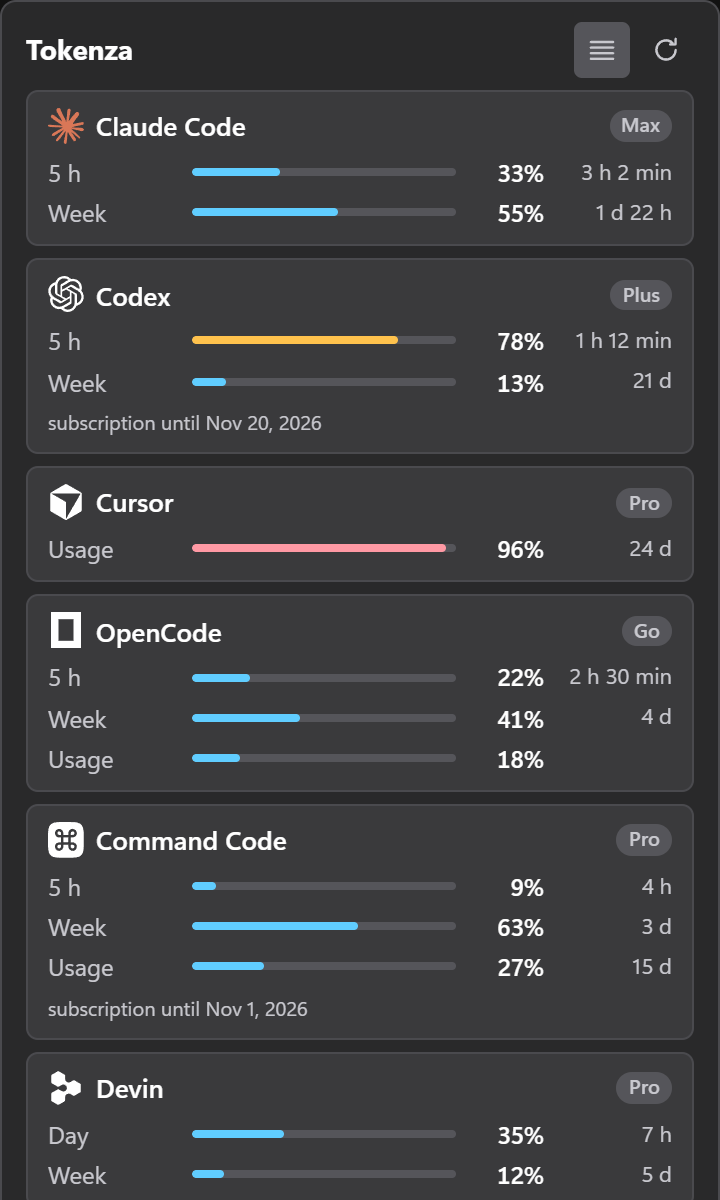
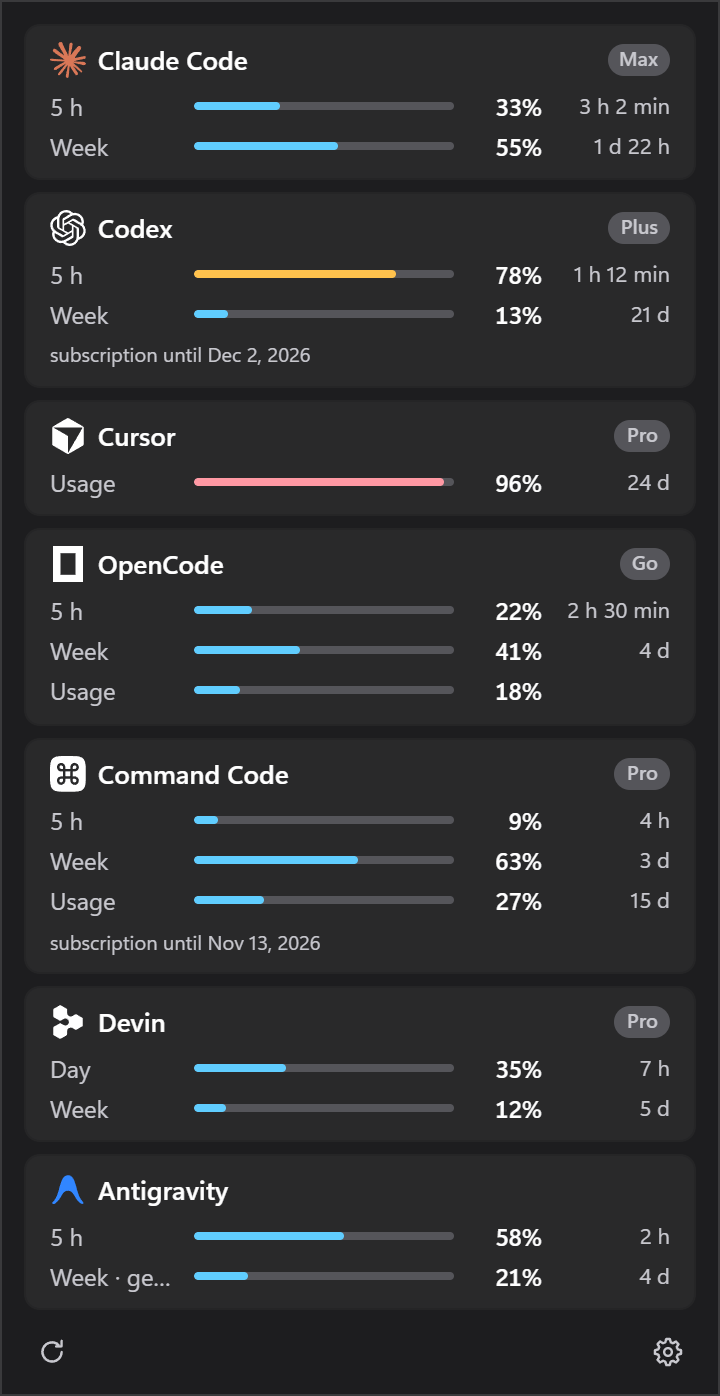
docs: refresh screenshots for the new flyout and drop the standard view ones

Changed region(s): [[0.0306, 0.0, 0.9778, 1.0], [0.9778, 0.0, 1.0, 0.0308]]

diff --git a/README.md b/README.md
@@ -18,8 +18,8 @@ A lightweight Windows tray app for Claude Code, Codex, Cursor and more.
 <br>
 
 <picture>
-  <source media="(prefers-color-scheme: dark)" srcset="docs/screenshots/flyout-dark.png">
-  <img src="docs/screenshots/flyout-light.png" alt="The Tokenza flyout with one card per provider" width="360">
+  <source media="(prefers-color-scheme: dark)" srcset="docs/screenshots/flyout-compact-dark.png">
+  <img src="docs/screenshots/flyout-compact-light.png" alt="The Tokenza flyout with one card per provider" width="360">
 </picture>
 
 </div>
